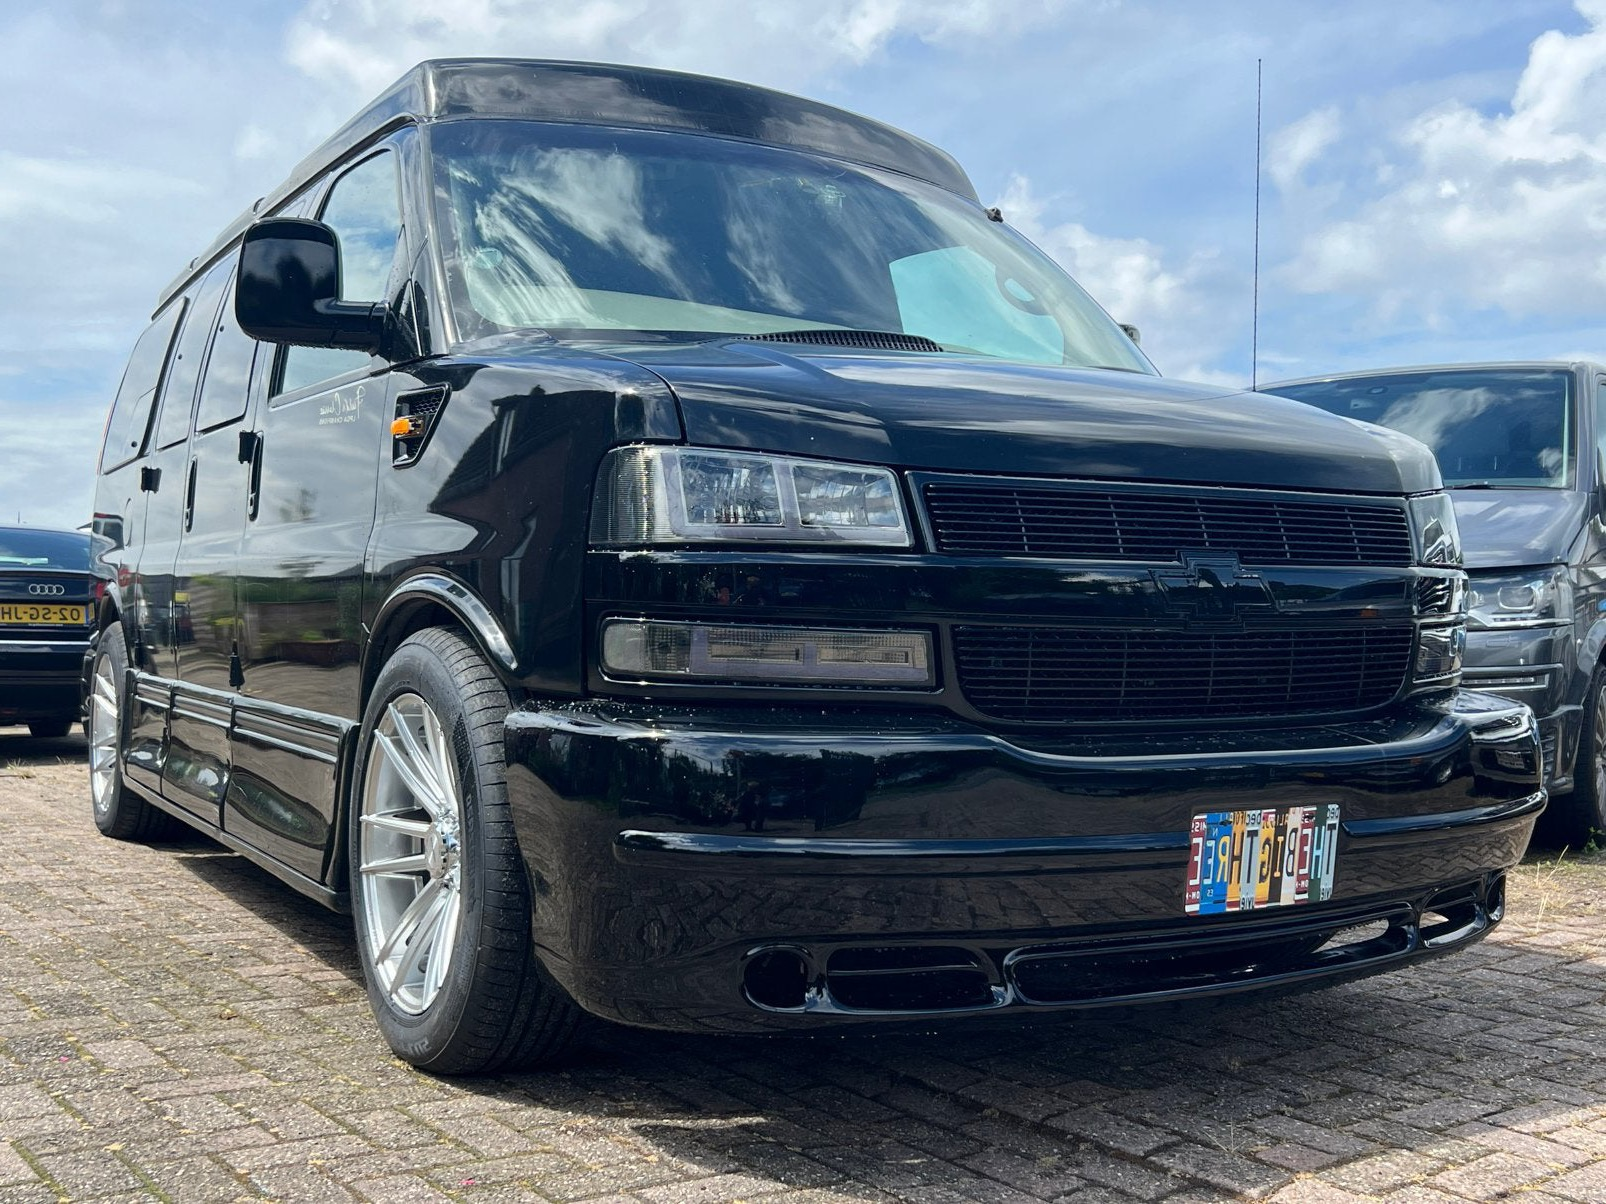
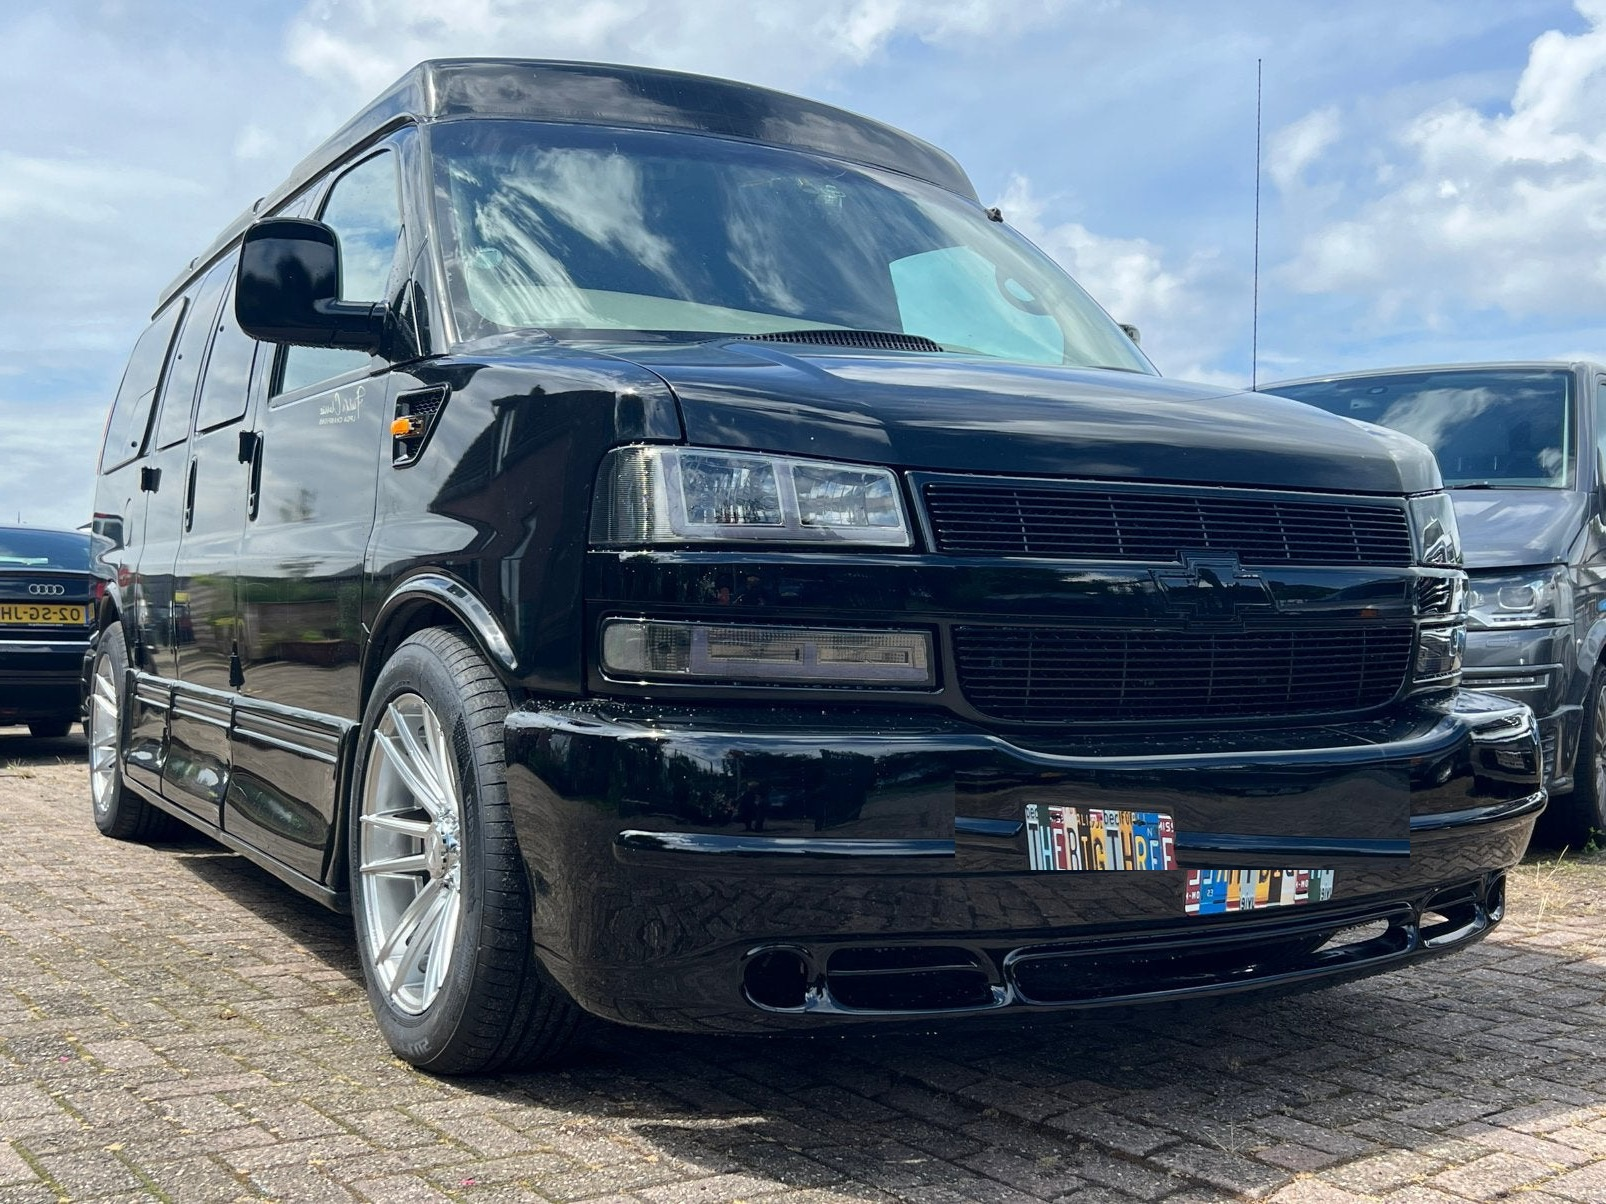
Kenteken leesbaar, YouTube thumbnail design, kaart header-filter + klikbaar

Changed region(s): [[0.5915, 0.6453, 0.9029, 0.7375]]

diff --git a/index.html b/index.html
@@ -701,46 +701,39 @@
     gap:80px;
     align-items:start;
   }
-  .story-vid-col{
-    border:1px solid var(--line);
-    overflow:hidden;
-    position:sticky;
-    top:100px;
-  }
-  .story-vid-col .video-wrap{
-    border:none;
-    margin:0;
-  }
-  .story-img{
-    aspect-ratio:4/5;
-    position:relative;
-    overflow:hidden;
+  .story-vid-col{position:sticky;top:100px}
+  .story-vid-thumb{
+    position:relative;overflow:hidden;
+    aspect-ratio:16/9;cursor:pointer;
     border:1px solid var(--line);
   }
-  .story-img img{
+  .story-vid-thumb img{
     width:100%;height:100%;object-fit:cover;
-    filter:saturate(0.8) contrast(1.05);
+    filter:saturate(0.75) contrast(1.1);
+    transition:transform 0.6s ease;
   }
-  .story-img::before{
-    content:"THE BIG THREE";
-    position:absolute;
-    top:24px;left:24px;
-    font-family:'Special Elite';
-    font-size:12px;
-    color:var(--rust);
-    letter-spacing:0.3em;
-    z-index:2;
-    background:rgba(0,0,0,0.6);
-    padding:6px 12px;
+  .story-vid-thumb:hover img{transform:scale(1.04)}
+  .story-vid-overlay{
+    position:absolute;inset:0;
+    background:linear-gradient(115deg,rgba(10,9,8,0.80) 0%,rgba(10,9,8,0.20) 50%,rgba(10,9,8,0.68) 100%);
   }
-  .story-img::after{
-    content:"";
-    position:absolute;
-    bottom:-12px;right:-12px;
-    width:100%;height:100%;
-    border:1px solid var(--rust);
-    z-index:-1;
+  .story-play-btn{
+    position:absolute;top:50%;left:50%;
+    transform:translate(-50%,-50%);
+    width:76px;height:76px;border-radius:50%;
+    background:rgba(200,16,46,0.88);
+    border:2px solid rgba(255,255,255,0.25);
+    cursor:pointer;display:flex;align-items:center;justify-content:center;
+    transition:all 0.25s;z-index:3;
   }
+  .story-play-btn:hover{background:var(--rust);transform:translate(-50%,-50%) scale(1.12);border-color:rgba(255,255,255,0.55)}
+  .story-play-btn svg{width:30px;height:30px;fill:#fff;stroke:none;margin-left:5px}
+  .story-vid-label{position:absolute;bottom:24px;left:24px;z-index:3}
+  .story-vid-label .eyebrow{margin-bottom:6px}
+  .story-vid-label h3{font-family:'Bebas Neue';font-size:clamp(22px,3vw,38px);line-height:0.95;color:var(--ink)}
+  .story-vid-label h3 em{color:var(--rust);font-style:italic}
+  .story-vid-embed{aspect-ratio:16/9;border:1px solid var(--line)}
+  .story-vid-embed iframe{width:100%;height:100%;border:none;display:block}
   .story-content h2{
     font-family:'Bebas Neue';
     font-size:clamp(40px,5vw,72px);
@@ -1015,16 +1008,11 @@
   .map-route-btn:hover{background:var(--rust-deep)}
   .map-route-btn svg{width:14px;height:14px;fill:none;stroke:currentColor;stroke-width:2.5;flex-shrink:0}
   .map-frame{position:relative}
-  .map-frame::after{
-    content:"";
-    position:absolute;inset:0;
-    background:linear-gradient(
-      115deg,
-      rgba(10,9,8,0.82) 0%,
-      rgba(10,9,8,0.22) 50%,
-      rgba(10,9,8,0.70) 100%
-    );
-    pointer-events:none;
+  .map-overlay{
+    position:absolute;inset:0;z-index:1;
+    background:linear-gradient(115deg,rgba(10,9,8,0.92) 0%,rgba(10,9,8,0.45) 50%,rgba(10,9,8,0.88) 100%);
+    cursor:pointer;
+    transition:opacity 0.45s ease;
   }
   .map-frame iframe{width:100%;height:270px;border:none;display:block}
 
@@ -1768,8 +1756,25 @@
   <div class="container">
     <div class="story-grid">
       <div class="story-vid-col">
-        <div class="story-img">
-          <img src="assets/david-broeksma.png" alt="David Broeksma – eigenaar The Big Three Garage Nunspeet">
+        <div class="story-vid-thumb" id="vidThumb">
+          <img src="https://img.youtube.com/vi/1nr1ZBFLPYQ/maxresdefault.jpg" alt="The Big Three Garage Nunspeet">
+          <div class="story-vid-overlay"></div>
+          <button class="story-play-btn" aria-label="Video afspelen"
+            onclick="this.closest('#vidThumb').hidden=true;document.getElementById('vidEmbed').hidden=false">
+            <svg viewBox="0 0 24 24"><polygon points="6,3 20,12 6,21"/></svg>
+          </button>
+          <div class="story-vid-label">
+            <div class="eyebrow" data-i18n="video.eyebrow">Bekijk de garage</div>
+            <h3 data-i18n="video.title">ZO ZIET HET<br><em>ERUIT.</em></h3>
+          </div>
+        </div>
+        <div class="story-vid-embed" id="vidEmbed" hidden>
+          <iframe
+            src="https://www.youtube-nocookie.com/embed/1nr1ZBFLPYQ?autoplay=1"
+            title="The Big Three Garage Nunspeet"
+            allow="accelerometer; autoplay; clipboard-write; encrypted-media; gyroscope; picture-in-picture"
+            allowfullscreen>
+          </iframe>
         </div>
       </div>
       <div class="story-content">
@@ -1828,6 +1833,7 @@
               title="The Big Three Garage Nunspeet"
               allowfullscreen loading="lazy" referrerpolicy="no-referrer-when-downgrade">
             </iframe>
+            <div class="map-overlay" onclick="this.style.opacity='0';this.style.pointerEvents='none'"></div>
           </div>
         </div>
       </div>
